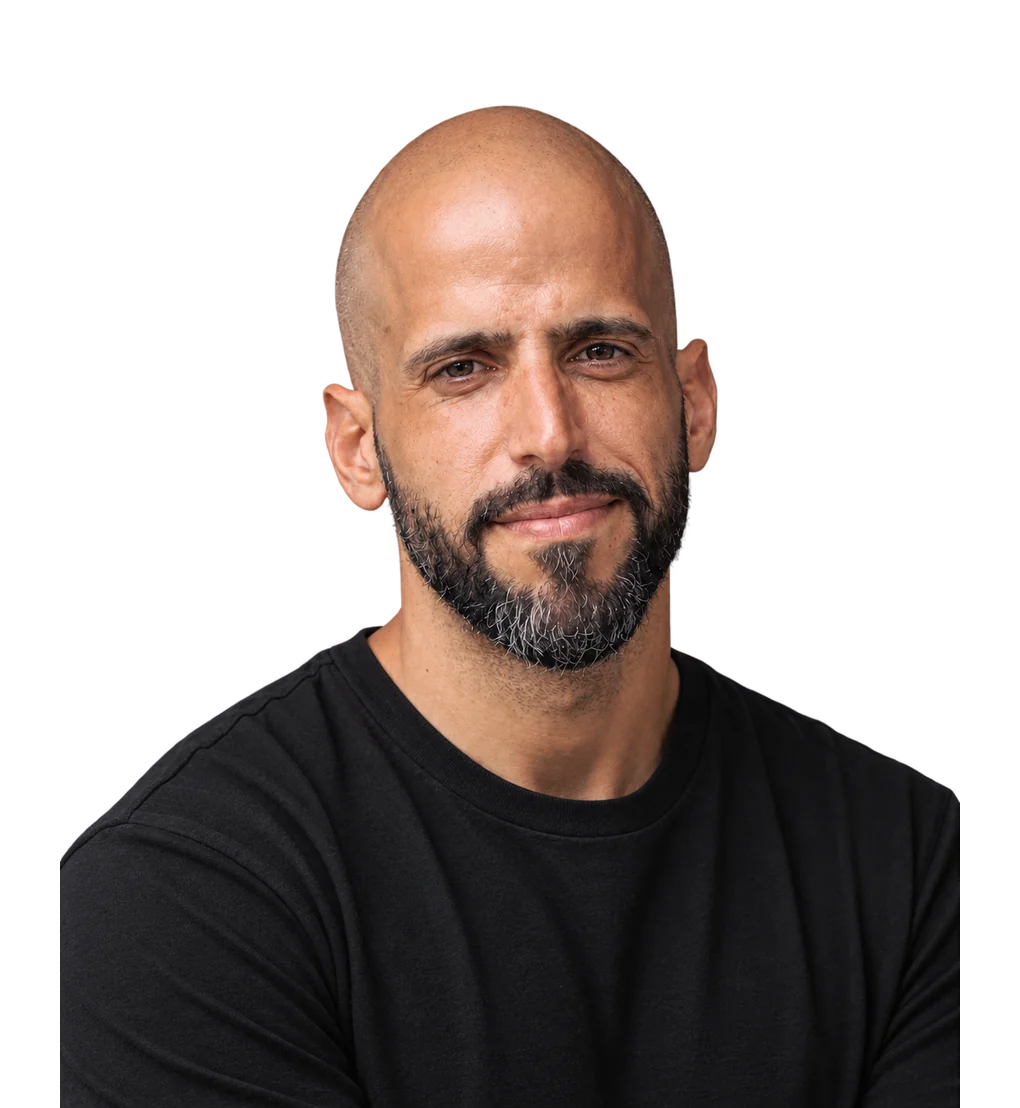
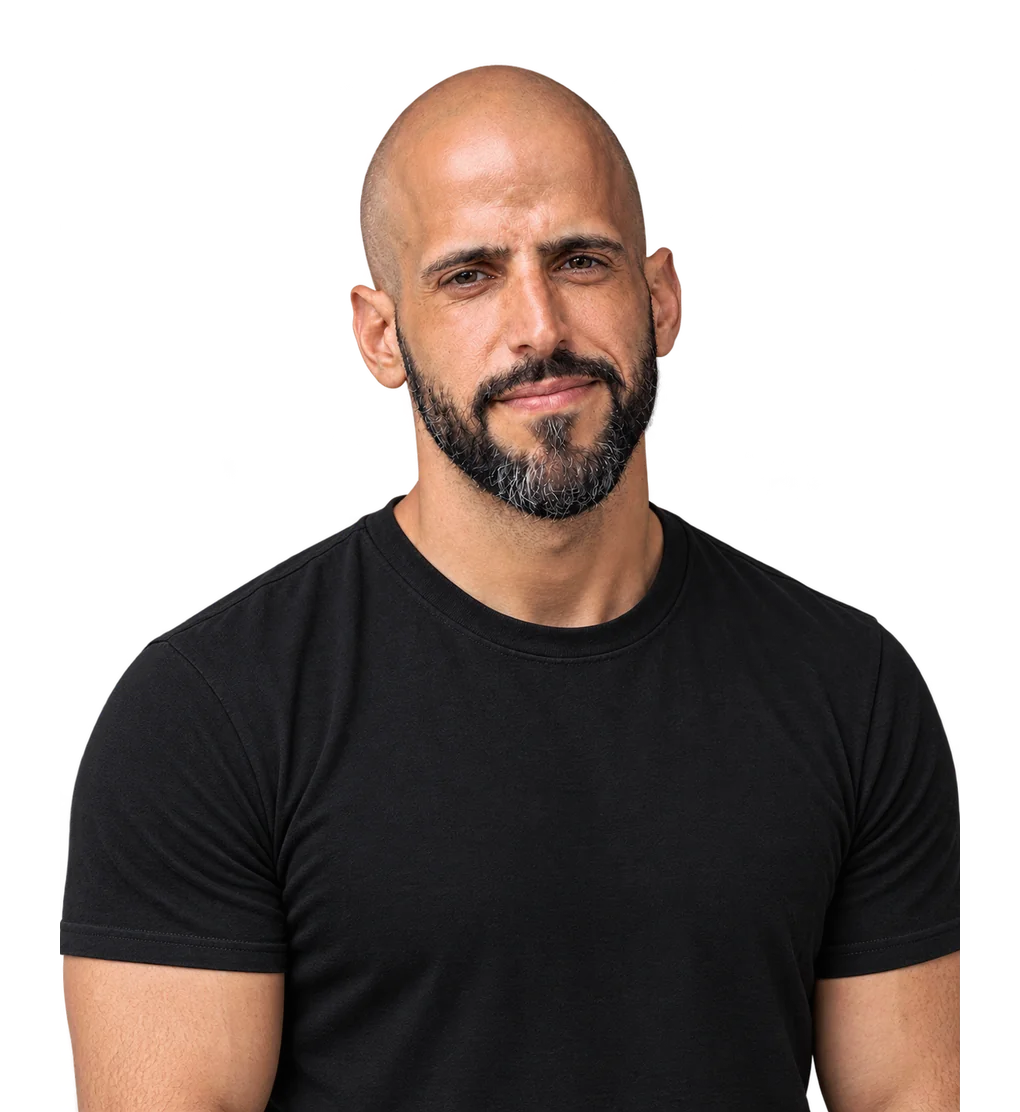
New hero portrait, centered anchor scrolling, darker photo backdrop
- Swap in the full-shoulders color portrait (mirrored on the Hebrew desktop so the
  cropped arm sits at the screen edge, not beside the text)
- In-page links center the section content below the header
- Dark pool behind the portrait follows the photo box
- Rings start further apart before tightening on scroll

diff --git a/css/style.css b/css/style.css
@@ -366,12 +366,24 @@ body.menu-open .menu-toggle span::after  { top: 0; transform: rotate(-45deg); }
 @media (max-width: 899px) {
   .hero-grid { min-height: auto; padding-top: clamp(7rem, 16vh, 9rem); }
 }
-/* page-coloured pool behind the portrait: the rings and dots fade out around him */
+/* dark pool behind the portrait: the rings and dots fade out around him. It copies the img box
+   (same anchor, height and aspect ratio), so it stays centred on him even where the photo runs
+   past its column, then is scaled up around his head and shoulders. */
 .hero-photo::after {
   content: "";
   position: absolute;
-  inset: -20% -45% -10%;
+  bottom: 0;
+  inset-inline-start: 0;
+  height: 100%;
+  aspect-ratio: 1020 / 1112;
+  transform: scale(1.5);
+  transform-origin: 50% 45%;
   z-index: -2;
+  /* darker than the page itself, so the centre behind him reads as a deep, quiet backdrop */
+  background: radial-gradient(closest-side at 50% 45%, #02070c 35%, rgba(2, 7, 12, 0.75) 62%, transparent);
+}
+/* light theme: a dark pool would read as a stain, so it just clears the rings to the page colour */
+:root[data-theme="light"] .hero-photo::after {
   background: radial-gradient(closest-side, var(--bg) 40%, transparent);
   opacity: 0.9;
 }
@@ -430,6 +442,9 @@ html.a11y-contrast .hero-title .accent { color: var(--accent); -webkit-text-stro
     width: auto;
     max-width: none;
   }
+  /* the shot crops one arm at the photo's right edge; in RTL the photo sits on the left, so it is
+     mirrored to put that cut against the screen edge instead of beside the text */
+  :root[dir="rtl"] .hero-photo img { transform: scaleX(-1); }
 }
 
 .hero-cta { display: flex; flex-wrap: wrap; gap: 1rem; }
@@ -1238,7 +1253,7 @@ html.lenis, html.lenis body { height: auto; }
 :root[dir="ltr"] .page-space .pod-vortex { left: 86%; }
 .page-space .pod-vortex span { opacity: 0.45; }
 /* rings start wide apart at the top of the page and draw closer together while scrolling */
-.page-space .pod-vortex span { --ring-gap: calc(8.5% - var(--scroll, 0) * 3.5%); }
+.page-space .pod-vortex span { --ring-gap: calc(13% - var(--scroll, 0) * 8%); }
 @media (prefers-reduced-motion: reduce) {
   .page-space .pod-vortex span { --ring-gap: 6%; }
 }
@@ -1265,12 +1280,6 @@ html.a11y-stop-motion .page-space .pod-vortex span { --ring-gap: 6%; }
   opacity: 0.45;
 }
 :root[data-theme="light"] .page-space .pod-vortex span { opacity: 0.45; }
-/* rings start wide apart at the top of the page and draw closer together while scrolling */
-.page-space .pod-vortex span { --ring-gap: calc(8.5% - var(--scroll, 0) * 3.5%); }
-@media (prefers-reduced-motion: reduce) {
-  .page-space .pod-vortex span { --ring-gap: 6%; }
-}
-html.a11y-stop-motion .page-space .pod-vortex span { --ring-gap: 6%; }
 html.a11y-contrast .page-space { display: none !important; }
 
 /* ---------- Liquid glass background (whole page) ---------- */

diff --git a/js/main.js b/js/main.js
@@ -23,6 +23,21 @@
 
   /* ---- In-page anchor navigation ---- */
   const HEADER_OFFSET = 90;
+  /* Center the section's content (its box minus the generous section padding) in the space
+     below the fixed header; a section taller than that lands with its heading under the header. */
+  const anchorY = (target) => {
+    const cs = getComputedStyle(target);
+    const padTop = parseFloat(cs.paddingTop) || 0;
+    const padBottom = parseFloat(cs.paddingBottom) || 0;
+    const contentTop = target.getBoundingClientRect().top + window.scrollY + padTop;
+    const contentH = target.offsetHeight - padTop - padBottom;
+    const avail = window.innerHeight - HEADER_OFFSET;
+    const y = contentH <= avail
+      ? contentTop - HEADER_OFFSET - (avail - contentH) / 2
+      : contentTop - HEADER_OFFSET - 24;
+    const max = document.documentElement.scrollHeight - window.innerHeight;
+    return Math.min(Math.max(y, 0), max);
+  };
   document.querySelectorAll('a[href^="#"]').forEach((link) => {
     link.addEventListener("click", (e) => {
       const id = link.getAttribute("href");
@@ -30,8 +45,9 @@
       const target = document.querySelector(id);
       if (!target) return;
       e.preventDefault();
-      if (lenis) lenis.scrollTo(target, { offset: -HEADER_OFFSET });
-      else target.scrollIntoView({ behavior: reduceMotion ? "auto" : "smooth" });
+      const y = anchorY(target);
+      if (lenis) lenis.scrollTo(y);
+      else window.scrollTo({ top: y, behavior: reduceMotion ? "auto" : "smooth" });
       history.replaceState(null, "", id);
     });
   });

diff --git a/index.html b/index.html
@@ -135,7 +135,7 @@
           </div>
         </div>
         <figure class="hero-photo reveal" data-delay="1">
-          <img src="assets/hero/aviv-portrait.webp" alt="אביב עגיב, דיוקן" width="1020" height="1108" fetchpriority="high" decoding="async" />
+          <img src="assets/hero/aviv-portrait.webp" alt="אביב עגיב, דיוקן" width="1020" height="1112" fetchpriority="high" decoding="async" />
         </figure>
       </div>
     </section>

diff --git a/en.html b/en.html
@@ -135,7 +135,7 @@
           </div>
         </div>
         <figure class="hero-photo reveal" data-delay="1">
-          <img src="assets/hero/aviv-portrait.webp" alt="Aviv Agiv, portrait" width="1020" height="1108" fetchpriority="high" decoding="async" />
+          <img src="assets/hero/aviv-portrait.webp" alt="Aviv Agiv, portrait" width="1020" height="1112" fetchpriority="high" decoding="async" />
         </figure>
       </div>
     </section>
